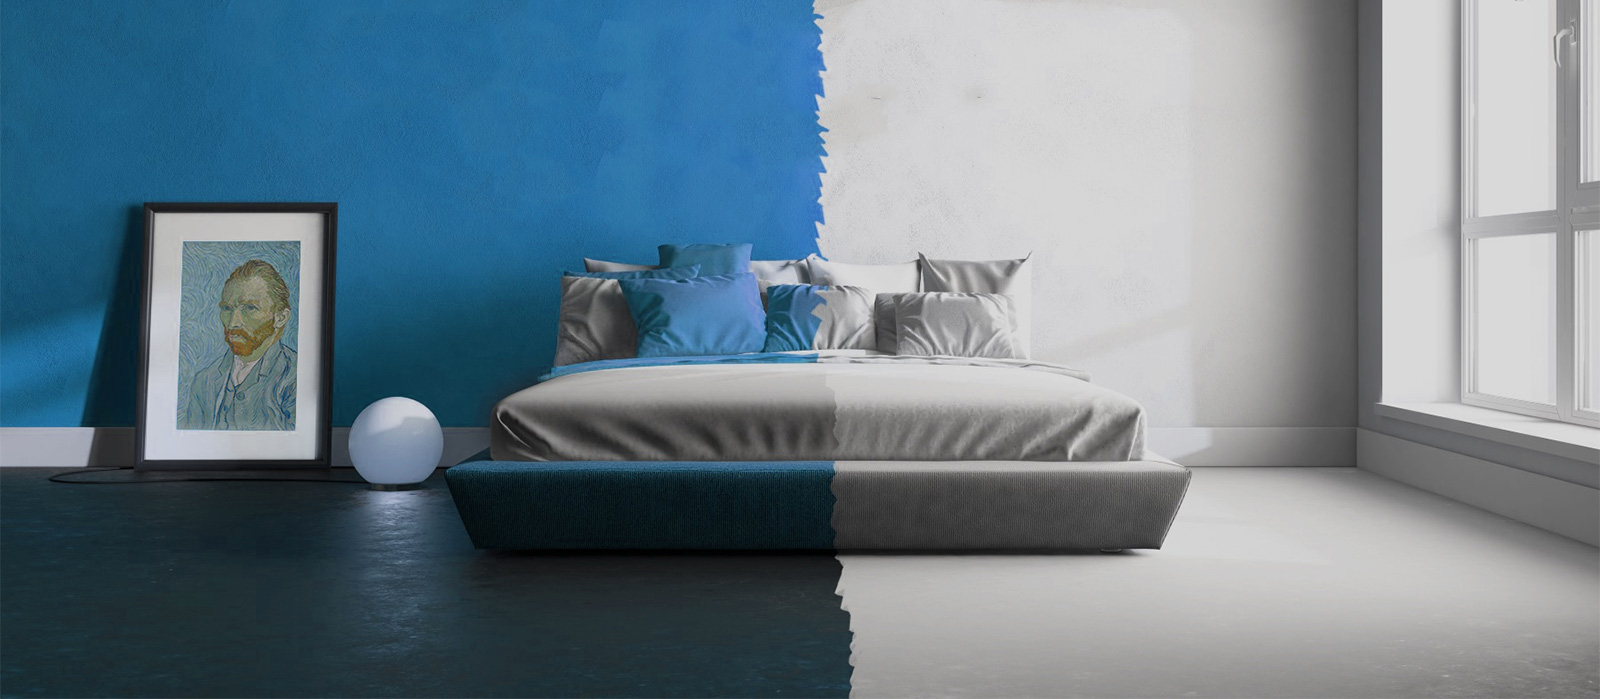
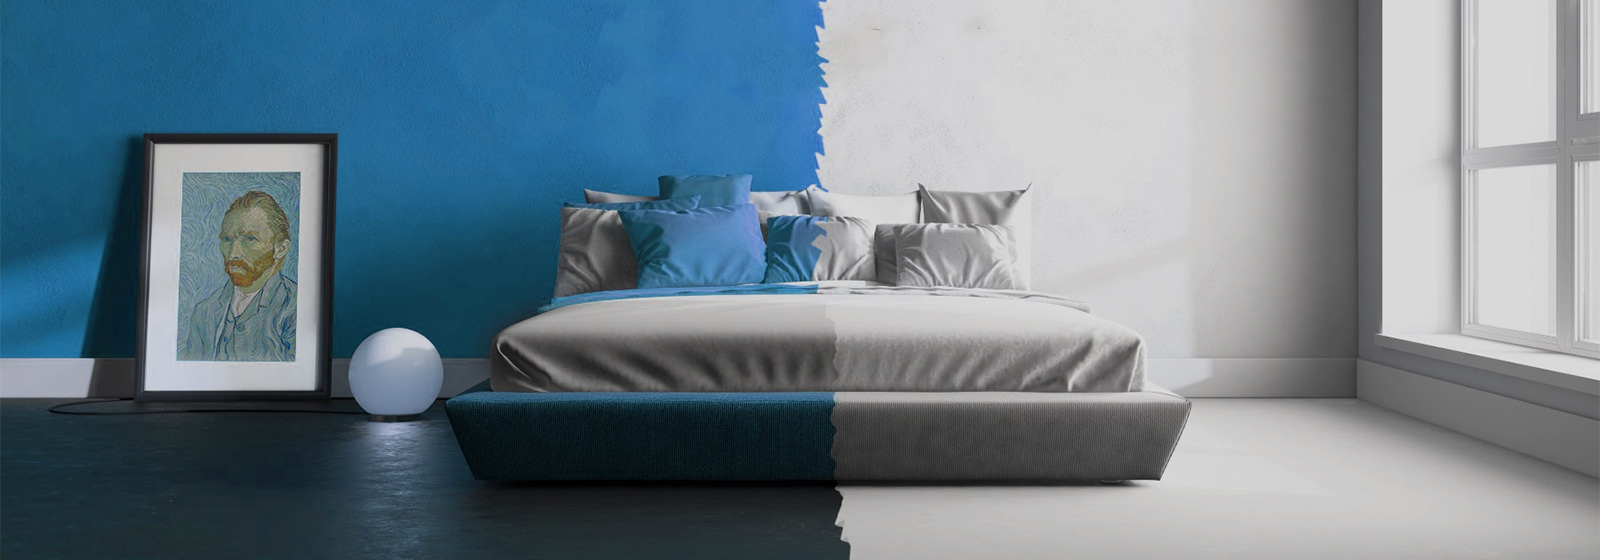
styling home page

diff --git a/index.html b/index.html
@@ -3,88 +3,13 @@ layout: default
 title: Home
 ---
 
-<!-- <div class="masthead bg-hero-home">
-	<div class="container">
-		<div class="teaser">
-			<h1>Think Differently</h1>
-			<p class="lead">Η Vernilac επαναπροσδιορίζει το χρώμα</p>
+<section class="tm-home">
+	<div class="uk-grid uk-grid-small">
+		<div class="uk-width-1-2">
+			<img src="img/color_paint_palette.jpg">
+		</div>
+		<div class="uk-width-1-2">
+			<img src="img/inspiration.jpg">
 		</div>
 	</div>
-</div> -->
-
-<div class="block">
-	<div class="container">
-		<h3 class="block-title">Χρωματικές Εμπνεύσεις</h3>
-		<p class="block-subtitle">Εμπνευστείτε για κάθε δωμάτιο στο σπίτι σας</p>
-
-		<div class="row">
-			<div class="col-sm-4">
-				<img src="img/home-1.jpg" class="img-responsive mg-md">
-				<img src="img/home-2.jpg" class="img-responsive mg-md">
-			</div>
-			<div class="col-sm-4">
-				<img src="img/home-3.jpg" class="img-responsive mg-md">
-				<img src="img/home-4.jpg" class="img-responsive mg-md">
-			</div>
-			<div class="col-sm-4">
-				<img src="img/home-5.jpg" class="img-responsive mg-md">
-				<img src="img/home-6.jpg" class="img-responsive mg-md">
-			</div>
-		</div>
-	</div>
-</div>
-
-<div class="block block-parallax block-featured bg-parallax">
-	<div class="container">
-		<div class="text-center">
-			<h2>Χρωματίστε το χώρο σας</h2>
-			<p class="lead">Επιλέξτε τις αποχρώσεις που σας ταιριάζουν</p>
-			<a href="" class="btn btn-lg btn-outline">Χρωματολόγια</a>
-		</div>
-	</div>
-</div>
-
-<div class="block">
-	<div class="container">
-		<h3 class="block-title">Χρωματικές Εμπνεύσεις</h3>
-		<p class="block-subtitle">Βρείτε το χρώμα που σας εμπνέει</p>
-
-		<div class="row">
-			<div class="col-1-5">
-				<a href="primer.html">
-					<img src="img/cat-primer.jpg" class="img-responsive">
-				</a>
-				<h4 class="cat-title">Υποστρώματα – Αστάρια τοίχων</h4>
-				<p>Υποστρώματα & αστάρια τοίχων σε μεγάλη ποικιλία</p>
-			</div>
-			<div class="col-1-5">
-				<a href="emulsion.html">
-					<img src="img/cat-interior.jpg" class="img-responsive">
-				</a>
-				<h4 class="cat-title">Εσωτερικούς Χώρους</h4>
-				<p>Πλαστικά χρώματα για εσωτερικούς τοίχους, σε χιλιάδες αποχρώσεις.</p>
-			</div>
-			<div class="col-1-5">
-				<a href="acrylic.html">
-					<img src="img/cat-exterior.jpg" class="img-responsive">
-				</a>
-				<h4 class="cat-title">Εξωτερικούς Χώρους</h4>
-				<p>Ακρυλικά χρώματα για εξωτερικούς τοίχους, σε χιλιάδες αποχρώσεις.</p>
-			</div>
-			<div class="col-1-5">
-				<a href="wood.html">
-					<img src="img/cat-wood.jpg" class="img-responsive">
-				</a>
-				<h4 class="cat-title">Ξύλινες Επιφάνειες</h4>
-				<p>Μεγάλη γκάμα προϊόντων για βαφή ξύλινων επιφανειών</p>
-			</div>
-			<div class="col-1-5">
-				<a href="metal.html">
-					<img src="img/cat-metal.jpg" class="img-responsive">
-				</a>
-				<h4 class="cat-title">Μεταλλικές Επιφάνειες</h4>
-				<p>Μεγάλη γκάμα χρωμάτων για μεταλλικές επιφάνειες.</p>
-			</div>
-		</div>
-	</div>
-</div>
+</section>

diff --git a/_layouts/default.html b/_layouts/default.html
@@ -6,14 +6,20 @@
 <body class="{% if page.title == 'Color Creations' %}{{page.title | downcase  | replace: ' ', '-'}}{% endif %}">
 	
 	{% include header.html %}
-	{% comment %}
+	
+	{% if page.title == 'Home' %}
+		{% include home-slideshow.html %}
+	{% endif %}
+	
+	<div class="uk-container uk-container-center">
 		{{ content }}
+	</div>
 
 
+	{% comment %}
 		{% include footer.html %}
 	{% endcomment %}
 
-	{% include home-slideshow.html %}
 
 	{% include javascripts.html %}
 

diff --git a/_includes/header.html b/_includes/header.html
@@ -4,7 +4,7 @@
 			<a class="uk-width-1-4 tm-header-logo" href="/"><img src="img/logo.svg"></a>
 			<div class="uk-width-3-4">
 				<div class="tm-toolbar">
-					<ul class="uk-subnav uk-subnav-line">
+					<ul class="uk-subnav uk-subnav-line uk-margin-remove">
 						<li><a href="about-us.html">Η εταιρεία</a></li>
 						<li><a href="about-us.html">Επικοινωνία</a></li>
 					</ul>

diff --git a/_includes/javascripts.html b/_includes/javascripts.html
@@ -1,4 +1,7 @@
 
 <script src="{{ "./js/jquery.min.js" | prepend: site.baseurl }}"></script>
 <script src="{{ "./js/uikit.min.js" | prepend: site.baseurl }}"></script>
+
+{% if page.title == 'Home' %}
 <script src="{{ "./js/slideshow.min.js" | prepend: site.baseurl }}"></script>
+{% endif %}

diff --git a/css/main.scss b/css/main.scss
@@ -57,10 +57,9 @@ $navbar-nav-height:    50px;
 	background: $block-secondary-background;
 }
 
-.tm-toolbar{
-	height: 40px;
+.tm-toolbar{ height: 40px; }
 
-	.uk-subnav{
-		margin: 0;
-	}
+.tm-home{
+	position: relative;
+	margin-top: -130px;
 }
